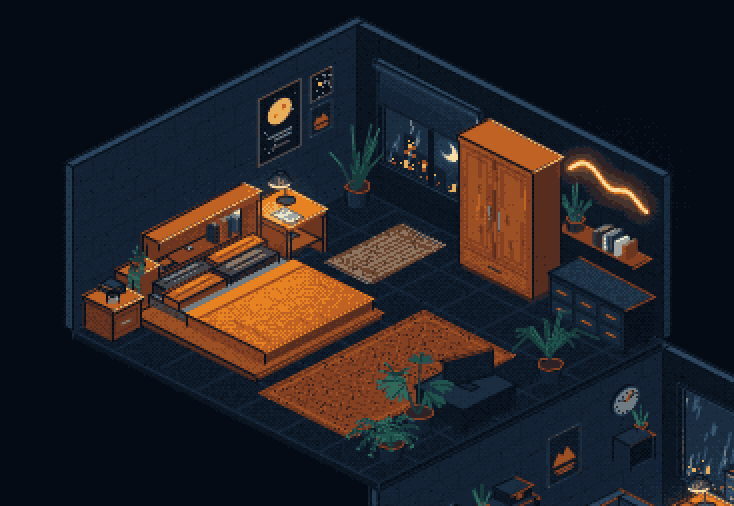
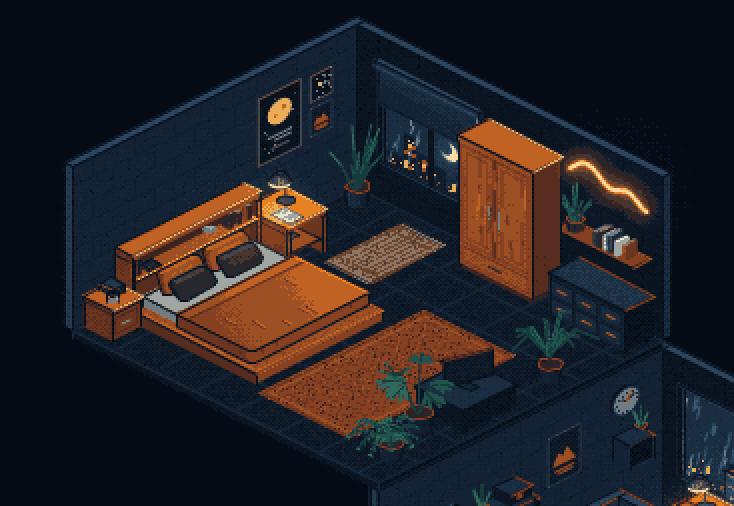
w
w

Changed region(s): [[0.1499, 0.3854, 0.5395, 0.7708], [0.2997, 0.3557, 0.3297, 0.3854]]

diff --git a/src/assets/platformBed.js b/src/assets/platformBed.js
@@ -1,93 +1,183 @@
 /* ═══════════════════════════════════════════════════════════════
-   assets/platformBed.js — the double bed: a low wooden platform
-   with a ledge, a bookcase headboard along the wall side, a lower
-   block at the near end with a trailing plant on it, four pillows,
-   grey sheet at the head, orange duvet over the rest.
+   assets/platformBed.js — the double bed from the reference: a
+   deep wooden platform with a ledge showing round the mattress,
+   a bookcase headboard down the wall side — a ledge over a
+   set-back panel, an open shelf above it, a thick top board, a
+   post at each end — a pale sheet at the head, two
+   orange pillows leaning under the ledge with two charcoal ones
+   propped in front, and a rust duvet folded back over the rest,
+   hanging down over the sides and the foot.
 
    platformBed(x, y, o)
      footprint x..x+w (6.9) by y..y+d (6.3); the headboard runs
      down the x side (against the left wall), the foot is at +x.
+     o.bare leaves the shelves empty.
      platformBed.H is the mattress top.
    ═══════════════════════════════════════════════════════════════ */
 (QH => {
   const M = QH.M;
-  const { box, poly, stroke, beam, rgb } = QH.draw;
-  const { rnd } = QH;
+  const { box, poly, stroke, beam, rgb, sh } = QH.draw;
+  const { rnd, mix } = QH;
+  const { P } = QH.cam;
   const light = QH.light, A = QH.assets;
 
-  const PH = 0.45, MH = 0.5;                                         // platform, mattress
+  const PH = 0.55, MH = 0.5;                                          // platform, mattress
   const H = PH + MH;
+
+  /** Move p a distance c toward q (never past halfway). */
+  const toward = (p, q, c) => {
+    const d = Math.hypot(q[0] - p[0], q[1] - p[1], q[2] - p[2]) || 1, k = Math.min(c / d, 0.5);
+    return [p[0] + (q[0] - p[0]) * k, p[1] + (q[1] - p[1]) * k, p[2] + (q[2] - p[2]) * k];
+  };
+  /** Cut every corner of a polygon back by c along both of its edges —
+      how a cushion gets its rounded corners at this scale. */
+  function soft(pts, c) {
+    const out = [], n = pts.length;
+    for (let i = 0; i < n; i++) {
+      const p = pts[i];
+      out.push(toward(p, pts[(i + n - 1) % n], c), toward(p, pts[(i + 1) % n], c));
+    }
+    return out;
+  }
+  /** The outside of a convex solid on screen: the hull of its points.
+      silhouette() fills it, contour() draws one ink line round it. Faces
+      inside stay unlined, which is what keeps a pillow from reading as a
+      crate, and the fill under them is what keeps its cut corners solid. */
+  function hull(pts) {
+    const s = pts.map(p => P(p[0], p[1], p[2])).sort((a, b) => a[0] - b[0] || a[1] - b[1]);
+    const cross = (o, a, b) => (a[0] - o[0]) * (b[1] - o[1]) - (a[1] - o[1]) * (b[0] - o[0]);
+    const lo = [], hi = [];
+    for (const p of s) { while (lo.length > 1 && cross(lo[lo.length - 2], lo[lo.length - 1], p) <= 0) lo.pop(); lo.push(p); }
+    for (const p of s.reverse()) { while (hi.length > 1 && cross(hi[hi.length - 2], hi[hi.length - 1], p) <= 0) hi.pop(); hi.push(p); }
+    const g = QH.draw.g;
+    g.beginPath();
+    lo.slice(0, -1).concat(hi.slice(0, -1)).forEach((q, i) => (i ? g.lineTo : g.moveTo).call(g, Math.round(q[0]) + 0.5, Math.round(q[1]) + 0.5));
+    g.closePath();
+  }
+  const silhouette = (pts, col) => { hull(pts); const g = QH.draw.g; g.fillStyle = col; g.fill(); };
+  const contour    = (pts, col) => { hull(pts); const g = QH.draw.g; g.strokeStyle = col; g.lineWidth = 1; g.stroke(); };
+
+  /** A pillow leaning back against the headboard: t thick, h tall, its
+      foot `lean` further out than its head, y0..y1 wide. Three faces, a
+      puffed lighter patch up the front, and one contour round the lot. */
+  function pillow(xh, y0, y1, pz, t, h, lean, col, top, end, o = {}) {
+    const c = o.soft ?? 0.14, puff = o.puff ?? 0.55, xt = xh + t, xb = xh + lean, xf = xb + t, zt = pz + h;
+    const front = [[xf, y0, pz], [xf, y1, pz], [xt, y1, zt], [xt, y0, zt]];
+    const topF  = [[xh, y0, zt], [xt, y0, zt], [xt, y1, zt], [xh, y1, zt]];
+    const endF  = [[xb, y1, pz], [xf, y1, pz], [xt, y1, zt], [xh, y1, zt]];
+    const pF = soft(front, c), pT = soft(topF, c), pE = soft(endF, c), all = pF.concat(pT, pE);
+    silhouette(all, rgb(end));                                        // the corners the faces are cut back from, in shadow
+    poly(pE, rgb(end));
+    poly(pT, rgb(top));
+    poly(pF, rgb(col));
+    // the puffed middle: inset from the sides, more from the bottom than the top
+    const ins = (a, b, k) => [a[0] + (b[0] - a[0]) * k, a[1] + (b[1] - a[1]) * k, a[2] + (b[2] - a[2]) * k];
+    const bl = ins(front[0], front[3], 0.38), br = ins(front[1], front[2], 0.38);
+    const tl = ins(front[3], front[0], 0.14), tr = ins(front[2], front[1], 0.14);
+    const yw = (y1 - y0) * 0.16;
+    poly(soft([[bl[0], bl[1] + yw, bl[2]], [br[0], br[1] - yw, br[2]], [tr[0], tr[1] - yw, tr[2]], [tl[0], tl[1] + yw, tl[2]]], c), rgb(mix(col, top, puff)));
+    if (o.seam) stroke([[xt, y0 + c, zt], [xt, y1 - c, zt]], rgb(o.seam));
+    contour(all, rgb(M.ink));
+  }
+
+  /** A colour darkened for a face, kept as an array so it can still be mixed. */
+  const sh2 = (col, k) => col.map(v => Math.min(255, v * k));
 
   const platformBed = (x, y, o = {}) => {
     const w = o.w || 6.9, d = o.d || 6.3;
-    const HB = 0.8, PILLAR = 1.3, HBH = 3.3, PLH = 2.2;               // headboard depth, near block width, heights
+    const HB = 0.8, LEDGE = 0.35, POST = 0.14;                         // headboard depth, how far the ledge stands out, its end posts
+    const SHELF = 1.9, HBH = 3.3, TOP = 0.35;                          // ledge height, headboard height, top board
     const wood = light.warm(M.rustLt, M.orange), woodTop = light.warm(M.orange, M.orangeLt);
     const woodDk = light.warm(M.rust, M.rustLt), rim = light.warm(M.orange, M.amber);
-    const W = { colTop: woodTop, colLeft: woodDk, colRight: wood, left: 0.9, right: 0.72 };
-    // the platform is a step darker than the headboard, so the duvet reads against it
-    const PL = { colTop: light.warm(M.rustLt, M.orangeDk), colLeft: light.warm(M.rustDk, M.rust), colRight: light.warm(M.rust, M.rustLt), left: 0.9, right: 0.75, rim: light.warm(M.rustLt, M.orange) };
+    const W = { colTop: woodTop, colLeft: woodDk, colRight: wood, left: 0.9, right: 0.82 };
 
-    /** A pillow: a box with a puffed, lighter middle and a crease across it. */
-    const pillow = (px, py, pz, pw, pd, ph, col, top) => {
-      box(px, py, pz, pw, pd, ph, col, { colTop: top, top: 1, left: 0.82, right: 0.62 });
-      const zt = pz + ph + 0.01, lt = QH.mix(top, M.cream, 0.18);
-      poly([[px + pw * 0.18, py + pd * 0.14, zt], [px + pw * 0.82, py + pd * 0.14, zt], [px + pw * 0.82, py + pd * 0.86, zt], [px + pw * 0.18, py + pd * 0.86, zt]], rgb(lt));
-      stroke([[px + pw * 0.5, py + pd * 0.1, zt], [px + pw * 0.5, py + pd * 0.9, zt]], rgb(QH.mix(col, M.ink, 0.35)));
-    };
-
-    /* ── headboard: a bookcase open toward the bed ── */
-    const hl = d - PILLAR;                                          // length of the tall part
-    box(x, y, 0, 0.25, hl, HBH, wood, W);                            // back panel
-    box(x, y, 0, HB, hl, 1.55, wood, W);                             // the solid part behind the pillows
-    box(x, y, 1.55, HB, hl, 0.12, wood, { ...W, top: 0.7 });          // compartment floor
-    const zc = 1.67;
+    /* ── headboard, the full width of the bed: a panel set back behind a
+          ledge the pillows tuck under, an open bookcase above the ledge, a
+          thick top board, a post at each end closing it all. The far post
+          is furthest from the camera, so it goes down first ── */
+    box(x, y, 0, HB, POST, HBH - TOP, wood, { ...W, left: 0.62 });      // far post, its inner face in the bookcase's shadow
+    const iy = y + POST, il = d - 2 * POST;                             // between the posts
+    box(x, iy, 0, HB - LEDGE, il, SHELF, wood, { ...W, colRight: woodDk, right: 0.8, edge: false });   // the panel, in the ledge's shadow
+    box(x, iy, SHELF, HB, il, 0.12, wood, { ...W, top: 0.88, rim, edge: false });                       // the ledge, a lit shelf against the dark back
+    stroke([[x + HB, iy, SHELF], [x + HB, iy + il, SHELF]], rgb(M.ink));                                 // the shadow line under the lip
+    const zc = SHELF + 0.12, ch = HBH - TOP - zc;                       // the bookcase floor and its height
+    box(x, iy, zc, 0.2, il, ch, wood, { ...W, colRight: woodDk, right: 0.5, edge: false });               // its back
     if (!o.bare) {
-      A.bookRow(x + 0.3, y + 0.35, zc, hl * 0.42, { along: 'y', depth: 0.45, seed: o.seed || 71, hMin: 0.75, hMax: 1.05,
-                                                   cols: [M.navy, M.slate, light.warm(M.rustLt, M.orange), M.cream, M.greyDk] });
-      A.ball(x + 0.45, y + hl * 0.62, zc, 0.17, M.greyDk);
-      A.book(x + 0.25, y + hl - 0.95, zc, 0.5, 0.6, M.navy, { h: 0.1 });
-      A.book(x + 0.28, y + hl - 0.92, zc + 0.1, 0.45, 0.55, light.warm(M.rustLt, M.orange), { h: 0.08 });
+      A.bookRow(x + 0.28, y + POST + 0.1, zc, 1.2, { along: 'y', depth: 0.42, seed: o.seed || 71, hMin: 0.6, hMax: 0.82,
+                                                    cols: [M.navy, M.greyDk, light.warm(M.rustLt, M.orange), M.slate] });
+      A.ball(x + 0.45, y + 2.1, zc, 0.27, M.greyLt);
+      A.book(x + 0.32, y + d - 1.45, zc, 0.42, 0.6, light.warm(M.rustLt, M.orange), { h: 0.09 });         // a book lying on the ledge
+      A.book(x + 0.35, y + d - 1.42, zc + 0.09, 0.38, 0.55, M.navy, { h: 0.08 });
+      box(x + 0.3, y + d - 0.6, zc, 0.42, 0.2, 0.8, M.greyDk, { colTop: M.grey, top: 0.9, left: 0.85, right: 0.7, edge: false });   // two standing at the near end
+      box(x + 0.3, y + d - 0.38, zc, 0.42, 0.18, 0.74, light.warm(M.rustLt, M.orange), { colTop: light.warm(M.orange, M.orangeLt), top: 0.9, left: 0.85, right: 0.7, edge: false });
     }
-    box(x, y, 0, HB, 0.15, HBH, wood, W);                            // far end panel
-    box(x, y, HBH - 0.4, HB, hl, 0.4, wood, { ...W, rim });           // top board
+    box(x, y + d - POST, 0, HB, POST, HBH - TOP, wood, W);               // near post
+    box(x, y, HBH - TOP, HB, d, TOP, wood, { ...W, rim });               // top board
 
-    // the lower block at the near end, and the plant that trails off it
-    box(x, y + hl, 0, HB, PILLAR, PLH, wood, { ...W, rim });
-    if (!o.bare) {
-      A.pottedPlant(x + 0.42, y + hl + PILLAR * 0.45, PLH, { r: 0.24, ph: 0.32, kind: 'leafy', size: 0.75, n: 8, seed: 43 });
-      A.vines(x + 0.6, y + hl + PILLAR * 0.7, PLH + 0.25, 1.4, 4, 44);
-      A.vines(x + 0.7, y + hl + PILLAR * 0.3, PLH + 0.2, 0.9, 2, 46);
+    /* ── the platform: one slab on the floor, a lit ledge round the mattress ── */
+    const px0 = x + HB, py0 = y + 0.05, pw = w - HB, pd = d - 0.05;
+    box(px0, py0, 0, pw, pd, PH, M.rust, { colTop: light.warm(M.rustLt, M.orangeDk), colLeft: light.warm(M.rustDk, M.rust), left: 0.9,
+                                           colRight: light.warm(M.rust, M.orange), right: 0.8, rim: light.warm(M.rustLt, M.orangeLt) });
+    const lip = rgb(light.warm(M.orange, M.orangeLt));                   // the ledge's outer edges catching the light
+    stroke([[px0 + 0.1, py0 + pd - 0.1, PH + 0.01], [px0 + pw - 0.1, py0 + pd - 0.1, PH + 0.01], [px0 + pw - 0.1, py0 + 0.1, PH + 0.01]], lip);
+
+    /* ── the sheet: the mattress shows only at the head ── */
+    const mx = px0, my = y + 0.3, mw = pw - 0.7, md = d - 0.8;
+    const split = mx + 1.85;                                             // where the duvet starts
+    box(mx, my, PH, split - mx + 0.25, md, MH, M.silver, { colTop: M.silver, top: 0.95, left: 0.75, right: 0.62 });
+
+    /* ── pillows: orange leaning on the headboard under the ledge, charcoal
+          ones propped against them in front ── */
+    const PW = 1.9, gy = [my + (md - 2 * PW - 0.4) / 2, my + (md + 0.4) / 2];
+    const or = light.warm(M.rustLt, M.orange), orTop = light.warm(M.orangeDk, M.orangeLt), orEnd = light.warm(M.rust, M.orangeDk);
+    for (const y0 of gy) {
+      pillow(mx, y0, y0 + PW, H, 0.35, 0.85, 0.28, sh2(or, 0.95), orTop, sh2(orEnd, 0.85));
+      pillow(mx + 0.5, y0 + 0.08, y0 + PW - 0.12, H, 0.3, 0.6, 0.45, M.greyDk, sh2(M.grey, 0.9), sh2(M.greyDk, 0.8), { seam: M.grey, soft: 0.15, puff: 0.35 });
     }
 
-    /* ── platform, then the mattress on it ── */
-    for (const [lx, ly] of [[x + HB, y + d - 0.3], [x + w - 0.3, y + d - 0.3], [x + w - 0.3, y + 0.1]]) box(lx, ly, 0, 0.25, 0.25, 0.12, M.ink, { edge: false });
-    box(x + HB, y + 0.1, 0.12, w - HB, d - 0.1, PH - 0.12, M.rust, PL);
+    /* ── the duvet: folded back at the head, hanging over the sides and
+          the foot, its near corner rounded off ── */
+    const dx0 = split, dx1 = mx + mw + 0.15, dy0 = my - 0.12, dy1 = my + md + 0.14;
+    const zT = H + 0.12, zB = PH + 0.04, c = 0.18;
+    const dvL = sh(light.warm(M.rust, M.orangeDk), 0.85), dvR = sh(light.warm(M.rustLt, M.orange), 0.82);
+    poly([[dx0, dy1, zB], [dx1 - c, dy1, zB], [dx1 - c, dy1, zT], [dx0, dy1, zT]], dvL);
+    poly([[dx1, dy0, zB], [dx1, dy1 - c, zB], [dx1, dy1 - c, zT], [dx1, dy0, zT]], dvR);
+    poly([[dx1 - c, dy1, zB], [dx1, dy1 - c, zB], [dx1, dy1 - c, zT], [dx1 - c, dy1, zT]], sh(light.warm(M.rust, M.orangeDk), 0.95));
 
-    const mx = x + HB, my = y + 0.3, mw = w - HB - 0.45, md = d - 1.15;   // mattress footprint: a ledge at +y and at the foot
-    const split = mx + 1.9;                                          // where the duvet starts
-    box(mx, my, PH, split - mx, md, MH, M.grey, { colTop: M.greyLt, top: 0.95, left: 0.85, right: 0.7 });
+    // the top: lit along the far edge by the lamp, falling into shadow toward the near side
+    const g = QH.draw.g, xm = (dx0 + dx1) / 2;
+    const a = P(xm, dy0, zT), b = P(xm, dy1, zT);
+    const grd = g.createLinearGradient(a[0], a[1], b[0], b[1]);
+    grd.addColorStop(0,    rgb(light.warm(M.orangeDk, M.orangeLt)));
+    grd.addColorStop(0.5,  rgb(light.warm(M.rustLt, M.orange)));
+    grd.addColorStop(1,    rgb(light.warm(M.rustDk, M.orangeDk)));
+    poly([[dx0, dy0, zT], [dx1, dy0, zT], [dx1, dy1 - c, zT], [dx1 - c, dy1, zT], [dx0, dy1, zT]], grd);
 
-    // the duvet hangs a little over the +y side and the foot
-    const dv = light.warm(M.rustLt, M.orangeDk), dvTop = light.warm(M.orangeDk, M.orangeLt);
-    box(split, my - 0.08, PH - 0.05, mx + mw - split + 0.1, md + 0.16, MH + 0.1, dv,
-        { colTop: dvTop, colLeft: light.warm(M.rust, M.orangeDk), left: 0.9, right: 0.7, rim: light.warm(M.orange, M.bright) });
-    // the turned-back fold, and the crease running down the middle
-    const zt = PH + MH + 0.06;
-    poly([[split, my - 0.06, zt], [split + 0.55, my - 0.06, zt], [split + 0.55, my + md + 0.06, zt], [split, my + md + 0.06, zt]], rgb(light.warm(M.orangeDk, M.bright)));
-    stroke([[split + 0.55, my - 0.06, zt], [split + 0.55, my + md + 0.06, zt]], rgb(light.warm(M.rust, M.orangeDk)));
-    const R = rnd(73);
+    // the fold at the head: a roll a step lighter than the body, a crease where it meets it
+    const zf = zT + 0.01, fx = dx0 + 0.55;
+    const roll = g.createLinearGradient(a[0], a[1], b[0], b[1]);
+    roll.addColorStop(0,   rgb(light.warm(M.orange, M.orangeLt)));
+    roll.addColorStop(0.5, rgb(light.warm(M.orangeDk, M.orangeLt)));
+    roll.addColorStop(1,   rgb(light.warm(M.rustLt, M.orange)));
+    poly([[dx0, dy0, zf], [fx, dy0, zf], [fx, dy1, zf], [dx0, dy1, zf]], roll);
+    stroke([[fx, dy0 + 0.03, zf], [fx, dy1 - 0.03, zf]], rgb(light.warm(M.rustDk, M.rust)));
+    // wrinkles: short creases running toward the foot, each a dark line with a lit ridge beside it
+    const R = rnd(o.seed || 73), dark = light.warm(M.rustDk, M.rust), sheen = light.warm(M.orange, M.orangeLt);
     for (let i = 0; i < 6; i++) {
-      const cx = split + 0.9 + R() * (mx + mw - split - 1.2), cy = my + 0.3 + R() * (md - 0.6);
-      beam([cx, cy, zt], [cx + 0.35 + R() * 0.4, cy + 0.1, zt], 0.03, light.warm(M.rust, M.orange), 1);
+      const cx = fx + 0.35 + R() * (dx1 - fx - 1.0), cy = dy0 + 0.4 + R() * (dy1 - dy0 - 0.8), len = 0.3 + R() * 0.35, dy = len * (R() - 0.4) * 0.35;
+      beam([cx, cy, zf], [cx + len, cy + dy, zf], 0.03, dark, 1);
+      beam([cx + 0.05, cy - 0.07, zf], [cx + len - 0.05, cy + dy - 0.07, zf], 0.03, sheen, 1);
     }
+    // folds down the hanging faces, deeper near the corner
+    for (const u of [dx1 - 0.45, dx1 - 1.05, dx1 - 2.0]) beam([u, dy1 + 0.01, zT - 0.06], [u - 0.03, dy1 + 0.01, zT - 0.32], 0.03, dark, 1);
+    for (const u of [dy1 - 0.5, dy1 - 1.2, dy0 + 0.9]) beam([dx1 + 0.01, u, zT - 0.06], [dx1 + 0.01, u - 0.03, zT - 0.3], 0.03, dark, 1);
 
-    /* ── pillows: two rows, the back row leaning on the headboard ── */
-    const pw = md / 2 - 0.25, pz = PH + MH;
-    const or = light.warm(M.rustLt, M.orange), orT = light.warm(M.orangeDk, M.orangeLt);
-    pillow(mx + 0.05, my + 0.15, pz, 0.7, pw, 0.55, or, orT);
-    pillow(mx + 0.05, my + md / 2 + 0.1, pz, 0.7, pw, 0.55, M.greyDk, M.grey);
-    pillow(mx + 0.7, my + 0.35, pz, 0.85, pw, 0.42, M.greyDk, M.grey);
-    pillow(mx + 0.7, my + md / 2 + 0.3, pz, 0.85, pw, 0.42, or, orT);
+    // the contour: ink on the near edges and where it lies on the platform, light along the far edge
+    const ink = rgb(M.ink);
+    stroke([[dx0, dy0, zT], [dx0, dy1, zT], [dx1 - c, dy1, zT], [dx1, dy1 - c, zT], [dx1, dy0, zT]], ink);
+    for (const [ex, ey] of [[dx0, dy1], [dx1, dy0]]) stroke([[ex, ey, zT], [ex, ey, zB]], ink);
+    stroke([[dx0, dy1, zB], [dx1 - c, dy1, zB], [dx1, dy1 - c, zB], [dx1, dy0, zB]], ink);
+    stroke([[dx0 + 0.02, dy0, zT], [dx1, dy0, zT]], rgb(light.warm(M.orange, M.bright)));
   };
   platformBed.H = H;
   QH.assets.platformBed = platformBed;
